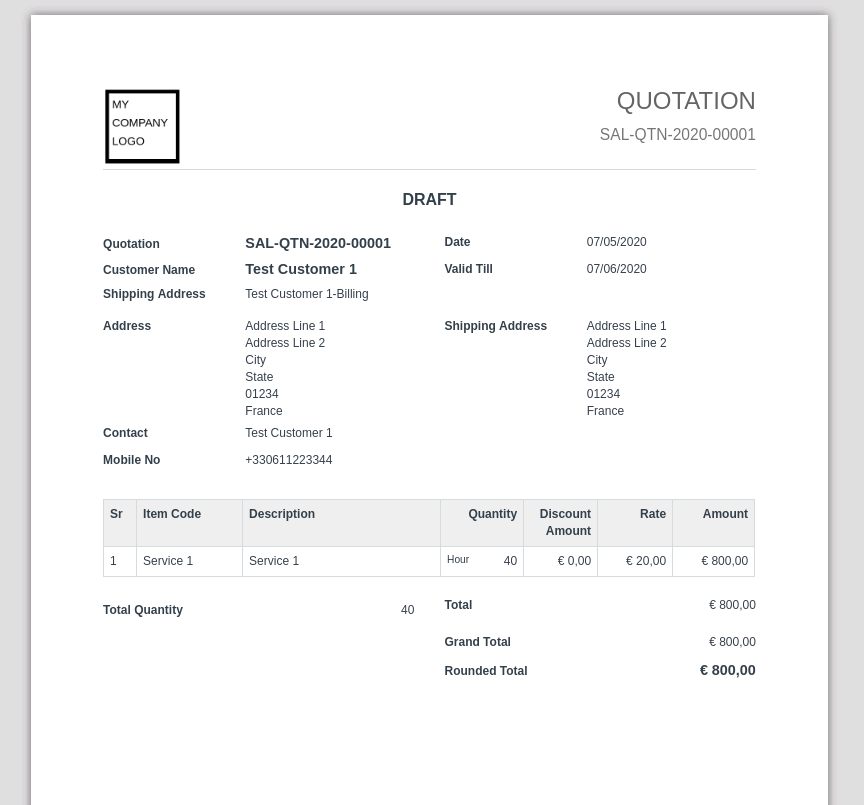
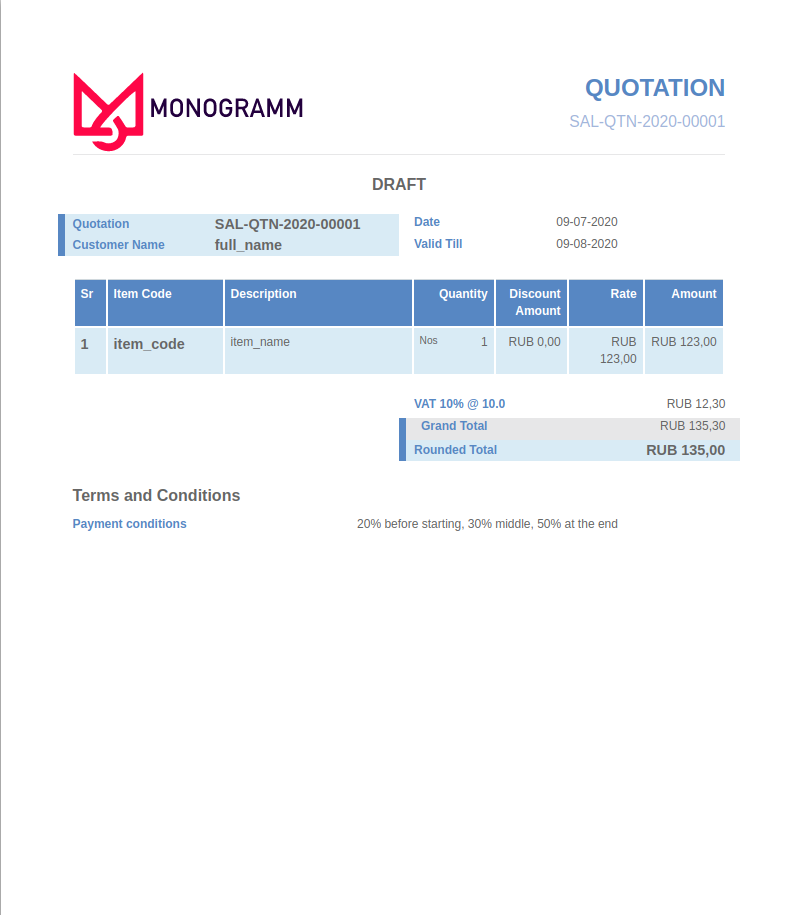
:lipstick: Beautify Print Formats and add Terms And conditions (#4)
* :art: Beautify Sales Invoice and add Terms And conditions

* :sparkles: Add 4 Terms and conditions

* :sparkles: Add Website generic T&C

* :art: Add new design of sales invoice

* :bug: Fix bug with Terms and conditions

* :bug: Fix bug with 20/30/50

* :lipstick: Add new design for Quotation, Purchase Invoice and Salary Slip

* :lipstick: New design of Quotation, Salary Slip and Purchase Invoice

* :bento: Add new images for frappe docs

* :lipstick: Modified sales invoice

* :lipstick: Upgrade design

* :bento: Add images inside assets

* :art: Update Purchase Invoice

* :art: Change margin for Purchase Invoice

* :memo: Move Termsfeed reference

* :art: Improve CSS for Print Formats

* :wrench: Fix list of fixtures

diff --git a/recod_erpnext_design/hooks.py b/recod_erpnext_design/hooks.py
@@ -17,7 +17,7 @@ app_license = "AGPL v3"
 
 # Includes in <head>
 # ------------------
-# fixtures = [""]
+fixtures = ["Website Theme", "Print Format", "Terms and Conditions"]
 
 # include js, css files in header of desk.html
 # app_include_css = "/assets/recod_erpnext_design/css/recod_erpnext_design.css"

diff --git a/recod_erpnext_design/docs/user/index.md b/recod_erpnext_design/docs/user/index.md
@@ -40,6 +40,30 @@ To use them, go to "_Website Settings_" and apply one of the available themes.
 
 ![Recod Website Dark Theme](./assets/recod_website_theme_dark.jpg "Recod Dark Theme Header")
 
+## Terms and Conditions
+
+### Payment 20/30/50 by bank transfer
+
+![20-30-50 screenshot](./assets/terms_and_conditions_20-30-50-by-bank-transfer.png "20-30-50 by bank transfer")
+
+### Payment on delivery by bank transfer
+
+![On delivery screenshot](./assets/terms_and_conditions_on_delivery.png "Terms and conditions on delivery")
+
+### Payment on due date by bank transfer
+
+![On due date screenshot](./assets/terms_and_conditions_on_due_date.png "On due date")
+
+### Payment on receipt by bank transfer
+
+![On receipt screenshot](./assets/terms_and_conditions_on_receipt.png "On receipt")
+
+### Termsfeed
+
+> We used **[Termsfeed](https://app.termsfeed.com/)** services to generate the following Terms and conditions.
+
+**TODO**
+
 ## License
 
 Copyright © 2020 [Monogramm](https://github.com/Monogramm).<br />

diff --git a/README.md b/README.md
@@ -53,9 +53,7 @@ When installing Frappe app, the following python requirements will be installed:
 
 ## :rocket: Usage
 
-How to use this application:
-
-Use Recod print formats, website themes, etc...
+How to use this application improve ERPNext print formats, website themes, etc...
 
 <!--
 [TODO] If project is deployed to DockerHub:
